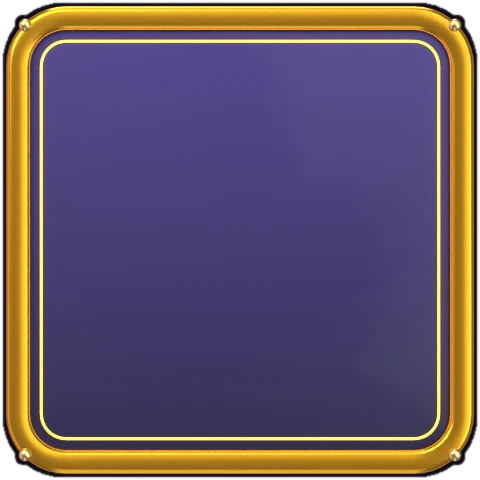
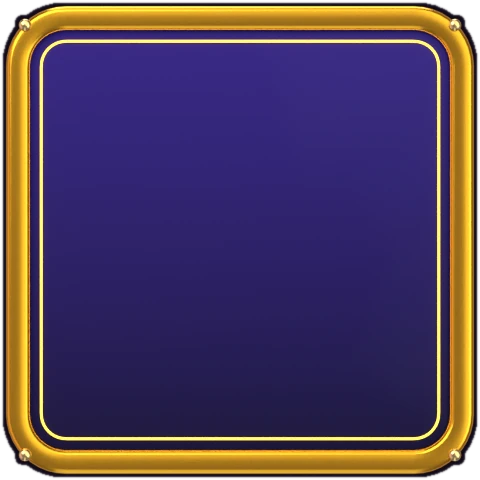
Design v3: loading/custom plates, deeper 9-slice panels, HUD v3 lettering
Claude-Session: https://claude.ai/code/session_011mwooD59vpdwHJFwMVEnMW

diff --git a/src/ui/v3/v3.css b/src/ui/v3/v3.css
@@ -60,28 +60,28 @@
 /* ---------------------------------------------------------------------------------------- ring screens (D46)
    Profile, settings, deck, results, pause, friends: the same layout, chrome from the Blender 9-slice kit
    (assets/ui3/kit: 2x renders, 64 px corners for panels, 100 px for buttons). */
-.v3 .v2-rs {
+:is(.v3.v2-rs, .v3 .v2-rs) {
   --k3-panel: url(assets/ui3/kit/panel.webp);
   --k3-panel-gold: url(assets/ui3/kit/panel_gold.webp);
 }
-.v3 .v2-rs,
-.v3 .v2-rs .rg-card,
-.v3 .v2-rs .rg-chip,
-.v3 .v2-rs .rg-seg > button,
-.v3 .v2-rs .rg-pill,
-.v3 .v2-rs .rg-switch > span,
-.v3 .v2-rs .rg-kpi > b {
+:is(.v3.v2-rs, .v3 .v2-rs),
+:is(.v3.v2-rs, .v3 .v2-rs) .rg-card,
+:is(.v3.v2-rs, .v3 .v2-rs) .rg-chip,
+:is(.v3.v2-rs, .v3 .v2-rs) .rg-seg > button,
+:is(.v3.v2-rs, .v3 .v2-rs) .rg-pill,
+:is(.v3.v2-rs, .v3 .v2-rs) .rg-switch > span,
+:is(.v3.v2-rs, .v3 .v2-rs) .rg-kpi > b {
   font-family: 'Lilita One', 'Nunito', sans-serif;
   font-weight: 400;
 }
-.v3 .v2-rs [class*='rg-'][style*='Permanent'],
-.v3 .v2-rs .rg-banner,
-.v3 .v2-rs .rg-ptitle,
-.v3 .v2-rs .rg-rname,
-.v3 .v2-rs .rg-sname {
+:is(.v3.v2-rs, .v3 .v2-rs) [class*='rg-'][style*='Permanent'],
+:is(.v3.v2-rs, .v3 .v2-rs) .rg-banner,
+:is(.v3.v2-rs, .v3 .v2-rs) .rg-ptitle,
+:is(.v3.v2-rs, .v3 .v2-rs) .rg-rname,
+:is(.v3.v2-rs, .v3 .v2-rs) .rg-sname {
   font-family: 'Lilita One', 'Nunito', sans-serif !important;
 }
-.v3 .v2-rs .rg-card {
+:is(.v3.v2-rs, .v3 .v2-rs) .rg-card {
   border: calc(var(--u) * 20) solid transparent;
   border-image: var(--k3-panel) 64 fill / calc(var(--u) * 32) / calc(var(--u) * 12) stretch;
   background: none;
@@ -89,13 +89,13 @@
   filter: drop-shadow(0 calc(var(--u) * 10) calc(var(--u) * 10) rgba(0, 0, 0, 0.55));
   padding: calc(var(--u) * 4) calc(var(--u) * 6);
 }
-.v3 .v2-rs .rg-card.gold {
+:is(.v3.v2-rs, .v3 .v2-rs) .rg-card.gold {
   border-image: var(--k3-panel-gold) 64 fill / calc(var(--u) * 32) / calc(var(--u) * 12) stretch;
   box-shadow: none;
 }
-.v3 .v2-rs .rg-chip,
-.v3 .v2-rs .rg-seg > button,
-.v3 .v2-rs .rg-pill {
+:is(.v3.v2-rs, .v3 .v2-rs) .rg-chip,
+:is(.v3.v2-rs, .v3 .v2-rs) .rg-seg > button,
+:is(.v3.v2-rs, .v3 .v2-rs) .rg-pill {
   border: calc(var(--u) * 10) solid transparent;
   border-image: url(assets/ui3/kit/btn_navy.webp) 96 fill / calc(var(--u) * 22) / calc(var(--u) * 6) stretch;
   background: none;
@@ -108,46 +108,46 @@
     calc(var(--u) * -1.5) 0 0 #120b18,
     0 calc(var(--u) * -1.5) 0 #120b18;
 }
-.v3 .v2-rs .rg-chip.on,
-.v3 .v2-rs .rg-seg > button.on,
-.v3 .v2-rs .rg-pill:not(.gray) {
+:is(.v3.v2-rs, .v3 .v2-rs) .rg-chip.on,
+:is(.v3.v2-rs, .v3 .v2-rs) .rg-seg > button.on,
+:is(.v3.v2-rs, .v3 .v2-rs) .rg-pill:not(.gray) {
   border-image-source: url(assets/ui3/kit/btn_gold.webp);
   color: #fff;
   box-shadow: none;
 }
-.v3 .v2-rs .rg-seg > button.on.p2 {
+:is(.v3.v2-rs, .v3 .v2-rs) .rg-seg > button.on.p2 {
   border-image-source: url(assets/ui3/kit/btn_red.webp);
 }
-.v3 .v2-rs .rg-pill.gray {
+:is(.v3.v2-rs, .v3 .v2-rs) .rg-pill.gray {
   border-image-source: url(assets/ui3/kit/btn_navy.webp);
 }
-.v3 .v2-rs .rg-switch {
+:is(.v3.v2-rs, .v3 .v2-rs) .rg-switch {
   border: calc(var(--u) * 6) solid transparent;
   border-image: url(assets/ui3/kit/cap.webp) 60 fill / calc(var(--u) * 23) stretch;
   background: none;
 }
-.v3 .v2-rs .rg-switch.on {
+:is(.v3.v2-rs, .v3 .v2-rs) .rg-switch.on {
   border-image-source: url(assets/ui3/kit/btn_green.webp);
   border-image-slice: 96 fill;
   box-shadow: none;
 }
-.v3 .v2-rs .rg-switch > i {
+:is(.v3.v2-rs, .v3 .v2-rs) .rg-switch > i {
   border: calc(var(--u) * 3) solid #120b18;
   background: radial-gradient(circle at 35% 30%, #ffffff, #c9d0e6 60%, #7c84a6);
 }
-.v3 .v2-rs .rg-bar {
+:is(.v3.v2-rs, .v3 .v2-rs) .rg-bar {
   height: calc(var(--u) * 18);
   border: calc(var(--u) * 3) solid #120b18;
   box-shadow: inset 0 calc(var(--u) * 3) 0 rgba(0, 0, 0, 0.6), 0 0 0 calc(var(--u) * 2) #e3a51f;
 }
-.v3 .v2-rs .rg-bar > b {
+:is(.v3.v2-rs, .v3 .v2-rs) .rg-bar > b {
   background: linear-gradient(180deg, #fff3a0 0 45%, #ffb21a 45% 100%);
   box-shadow: none;
 }
-.v3 .v2-rs .rg-bar.blue > b {
+:is(.v3.v2-rs, .v3 .v2-rs) .rg-bar.blue > b {
   background: linear-gradient(180deg, #a8e8ff 0 45%, #2a8cff 45% 100%);
 }
-.v3 .v2-rs .rg-bar.red > b {
+:is(.v3.v2-rs, .v3 .v2-rs) .rg-bar.red > b {
   background: linear-gradient(180deg, #ffb0b8 0 45%, #e3122b 45% 100%);
 }
 
@@ -217,4 +217,58 @@
   --sw: 0.14em;
   --ol: #2a1400;
   --sh: 0 0.07em 0 #120b18;
+}
+
+/* banner / pause title: chunky lettering (Lilita) instead of the dripping paint of v2 */
+:is(.v3.v2-rs, .v3 .v2-rs) .rg-banner > b {
+  font-family: 'Lilita One', 'Nunito', sans-serif;
+  letter-spacing: 0.02em;
+}
+:is(.v3.v2-rs, .v3 .v2-rs) .rg-banner > b::before {
+  -webkit-text-stroke: calc(var(--u) * 18) #180b00;
+}
+:is(.v3.v2-rs, .v3 .v2-rs) .rg-ptitle {
+  font-family: 'Lilita One', 'Nunito', sans-serif;
+  color: #ffd84a;
+  -webkit-text-stroke: calc(var(--u) * 4) #2a1400;
+  paint-order: stroke fill;
+  text-shadow: 0 calc(var(--u) * 6) 0 #120b18;
+}
+:is(.v3.v2-rs, .v3 .v2-rs) .rg-pbtn {
+  border: calc(var(--u) * 12) solid transparent;
+  border-image: url(assets/ui3/kit/btn_navy.webp) 96 fill / calc(var(--u) * 24) / calc(var(--u) * 6) stretch;
+  background: none;
+  box-shadow: none;
+  font-family: 'Lilita One', 'Nunito', sans-serif;
+  font-weight: 400;
+  letter-spacing: 0.04em;
+  color: #fff;
+  text-shadow: 0 calc(var(--u) * 3) 0 #120b18, calc(var(--u) * 2) 0 0 #120b18, calc(var(--u) * -2) 0 0 #120b18, 0 calc(var(--u) * -2) 0 #120b18;
+}
+:is(.v3.v2-rs, .v3 .v2-rs) .rg-pbtn.gold {
+  border-image-source: url(assets/ui3/kit/btn_gold.webp);
+  color: #fff;
+  box-shadow: none;
+}
+:is(.v3.v2-rs, .v3 .v2-rs) .rg-pbtn.red {
+  border-image-source: url(assets/ui3/kit/btn_red.webp);
+}
+:is(.v3.v2-rs, .v3 .v2-rs) .rg-pbtn:active {
+  box-shadow: none;
+}
+
+/* ---------------------------------------------------------------------------------------- fight HUD (D46)
+   The PO's HUD frames stay; the lettering becomes the v3 type: chunky, white/gold, heavy ink outline. */
+.hud.hm.v2h.v3h :is(.hm-name, .announce, .combo-n, .combo-l, .combo-d, .card-banner .bname, .sig-ready, .cine-title, .fatal-title, .finish-title, .duel-title) {
+  font-family: 'Lilita One', 'Nunito', sans-serif !important;
+  font-style: normal;
+  letter-spacing: 0.02em;
+  -webkit-text-stroke: 0.09em #120b18;
+  paint-order: stroke fill;
+}
+.hud.hm.v2h.v3h :is(.announce, .fatal-title, .finish-title, .duel-title) {
+  -webkit-text-stroke: 0.07em #1a0b00;
+}
+.hud.hm.v2h.v3h .hm-name {
+  -webkit-text-stroke: 0.12em #120b18;
 }

diff --git a/src/ui/hud.ts b/src/ui/hud.ts
@@ -13,7 +13,7 @@ import { HUD_ART, HUD_BOXES } from './menu/hudArt';
 import { fitTexts, pos, safeInsets, text } from './menu/kit';
 import './hudm.css';
 import './v2/hud2.css';
-import { isV2 } from './design';
+import { isV2, isV3 } from './design';
 
 interface Side {
   root: HTMLElement;
@@ -338,6 +338,7 @@ export class Hud {
     this.lastLocalMeter = -1;
     this.root.classList.remove('duel', 'finish', 'fatal');
     this.root.classList.toggle('v2h', isV2()); // D43: the v2 HUD skin (hud2.css)
+    this.root.classList.toggle('v3h', isV3()); // D46: v3 lettering over it (ui/v3/v3.css)
     this.root.classList.remove('v2-off');
     this.tauntEl.classList.remove('show');
     this.fatalTitle.classList.remove('show');

diff --git a/tools/ui3/kit.py b/tools/ui3/kit.py
@@ -39,8 +39,8 @@ def ink():
     return M('ink', lambda: lib.mat('ink', lib.srgb('#1a1222'), rough=0.6))
 
 
-def candy(name, top, bot, h=1.0, rough=0.28, coat=0.6, axis='Y', emission=0.0):
-    return M(f'candy{top}{bot}{h}{axis}{emission}', lambda: lib.gradient_mat(name, top, bot, rough=rough, coat=coat, axis=axis, lo=-h / 2, hi=h / 2, emission=emission))
+def candy(name, top, bot, h=1.0, rough=0.28, coat=0.6, axis='Y', emission=0.0, spec=0.5):
+    return M(f'candy{top}{bot}{h}{axis}{emission}{spec}{rough}{coat}', lambda: lib.gradient_mat(name, top, bot, rough=rough, coat=coat, axis=axis, lo=-h / 2, hi=h / 2, emission=emission, spec=spec))
 
 
 def flat(hexcol, rough=0.4, coat=0.0, metallic=0.0):
@@ -161,12 +161,12 @@ def corners(w, h, inset):
     return [(sx * (w / 2 - inset), sy * (h / 2 - inset)) for sx in (-1, 1) for sy in (-1, 1)]
 
 
-def panel(w, h, r=0.2, face=('#26307f', '#0d1240'), rim='gold', rim_w=0.075, depth=0.16, rivet=True, inner_line=None, pts=None):
+def panel(w, h, r=0.2, face=('#26307f', '#0d1240'), rim='gold', rim_w=0.075, depth=0.16, rivet=True, inner_line=None, pts=None, coat=0.35, rough=0.42):
     """Chunky enamel panel with a beveled metal frame. Returns the top z (for things laid on it)."""
     outer = pts or lib.rounded_rect_pts(w, h, r)
     rim_mat = {'gold': gold(), 'steel': steel(), 'dark': steel('#4b4f63', 0.35)}.get(rim) if isinstance(rim, str) and rim in ('gold', 'steel', 'dark') else candy('rim' + rim, CANDY[rim][2], CANDY[rim][1], h) if isinstance(rim, str) else rim
     lib.frame('rim', outer, rim_w, depth + 0.06, rim_mat, bevel=min(rim_w, 0.06) * 0.45)
-    lib.slab('face', lib.inset(outer, rim_w * 0.8), depth, 0.035, candy('face', face[0], face[1], h, rough=0.42, coat=0.35), seg=4)
+    lib.slab('face', lib.inset(outer, rim_w * 0.8), depth, 0.035, candy(f'face{coat}{rough}', face[0], face[1], h, rough=rough, coat=coat, spec=0.5 if coat > 0.2 else 0.12), seg=4)
     if inner_line:
         lib.frame('line', lib.inset(outer, rim_w + 0.05), 0.012, depth + 0.012, glow(inner_line, 2.5), bevel=0.004, seg=2)
     if rivet:

diff --git a/tools/ui3/nine.py b/tools/ui3/nine.py
@@ -23,11 +23,11 @@ def save(name, im):
 
 if __name__ == '__main__':
     if want('panel'):
-        save('panel', P.render_piece('k_panel', 240, 240, lambda w, h: kit.panel(w - 0.06, h - 0.06, r=0.3, face=('#232c78', '#0a0d30'), rim='gold', rim_w=0.09, inner_line='#5fa8ff')))
+        save('panel', P.render_piece('k_panel', 240, 240, lambda w, h: kit.panel(w - 0.06, h - 0.06, r=0.3, face=('#1c2a86', '#070a2a'), rim='gold', rim_w=0.09, inner_line='#5fa8ff', coat=0.08, rough=0.55)))
     if want('panel_gold'):
-        save('panel_gold', P.render_piece('k_panel_gold', 240, 240, lambda w, h: kit.panel(w - 0.06, h - 0.06, r=0.3, face=('#3a2a8a', '#140c40'), rim='gold', rim_w=0.12, inner_line='#ffd23f')))
+        save('panel_gold', P.render_piece('k_panel_gold', 240, 240, lambda w, h: kit.panel(w - 0.06, h - 0.06, r=0.3, face=('#33208a', '#0e0830'), rim='gold', rim_w=0.12, inner_line='#ffd23f', coat=0.08, rough=0.55)))
     if want('panel_red'):
-        save('panel_red', P.render_piece('k_panel_red', 240, 240, lambda w, h: kit.panel(w - 0.06, h - 0.06, r=0.3, face=('#a0283e', '#3a0812'), rim='gold', rim_w=0.09, inner_line='#ff8a9c')))
+        save('panel_red', P.render_piece('k_panel_red', 240, 240, lambda w, h: kit.panel(w - 0.06, h - 0.06, r=0.3, face=('#a0283e', '#3a0812'), rim='gold', rim_w=0.09, inner_line='#ff8a9c', coat=0.08, rough=0.55)))
     if want('well'):
         def well(w, h):
             pts = lib.rounded_rect_pts(w - 0.04, h - 0.04, 0.22)

diff --git a/tools/ui3/lib.py b/tools/ui3/lib.py
@@ -179,7 +179,7 @@ def enamel(name, hexcol, rough=0.35, coat=1.0):
     return mat(name, srgb(hexcol), rough=rough, coat=coat, coat_rough=0.04)
 
 
-def gradient_mat(name, top, bottom, rough=0.35, coat=1.0, axis='Z', lo=-1.0, hi=1.0, emission=0.0, metallic=0.0):
+def gradient_mat(name, top, bottom, rough=0.35, coat=1.0, axis='Z', lo=-1.0, hi=1.0, emission=0.0, metallic=0.0, spec=0.5):
     """Base colour graded along an object-space axis (top -> bottom): the lit-from-above glossy candy look."""
     m = bpy.data.materials.new(name)
     m.use_nodes = True
@@ -204,6 +204,7 @@ def gradient_mat(name, top, bottom, rough=0.35, coat=1.0, axis='Z', lo=-1.0, hi=
     p.inputs['Metallic'].default_value = metallic
     p.inputs['Coat Weight'].default_value = coat
     p.inputs['Coat Roughness'].default_value = 0.04
+    p.inputs['Specular IOR Level'].default_value = spec
     return m
 
 

diff --git a/tools/ui3/stage.py b/tools/ui3/stage.py
@@ -29,8 +29,8 @@ SHOTS = {
     'fighters': dict(feet=(920, 880), figH=760, fov=40, at=(0, 0)),
     'custom': dict(feet=(820, 742), figH=600, fov=40, at=(0, 0), lift=0.245, pedestals=[(0, 0)]),
     'loading': dict(feet=(836, 760), figH=330, fov=40, pitch=2, at=(0, 0)),
-    'ring': dict(feet=(836, 912), figH=600, fov=40, at=(0, 0)),
-    'lobby': dict(feet=(836, 800), figH=420, fov=40, pitch=4, at=(0, 0)),
+    'ring': dict(feet=(836, 912), figH=600, fov=40, at=(0, 0), banners=[(-3.3, 7.6, 4.5, 2.2, 4.0, 'l'), (3.3, 7.6, 4.5, 2.2, 4.0, 'r')]),
+    'lobby': dict(feet=(836, 800), figH=420, fov=40, pitch=4, at=(0, 0), banners=[(-3.6, 7.6, 4.5, 2.2, 4.0, 'l'), (3.6, 7.6, 4.5, 2.2, 4.0, 'r')]),
     'arena': dict(feet=(836, 760), figH=300, fov=40, pitch=6, at=(0, 0)),
 }
 

diff --git a/tools/ui3/custom.py b/tools/ui3/custom.py
@@ -75,7 +75,7 @@ if __name__ == '__main__':
             menu(i)
     if want('save'):
         b = ART['save']
-        P.save_webp(C.cta('cu_save', b, 'crown', plate_inset=(0.4, 0.1)), os.path.join(OUT, 'save.webp'), b[2], b[3])
+        P.save_webp(C.cta('cu_save', b, 'crown', plate_inset=(0.2, 0.04), icon_at=(-1.62, 0.0)), os.path.join(OUT, 'save.webp'), b[2], b[3])
     if want('dice'):
         b = ART['dice']
         P.save_webp(C.icon_button('cu_dice', b, 'dice', 'navy', 0.66), os.path.join(OUT, 'dice.webp'), b[2], b[3])
